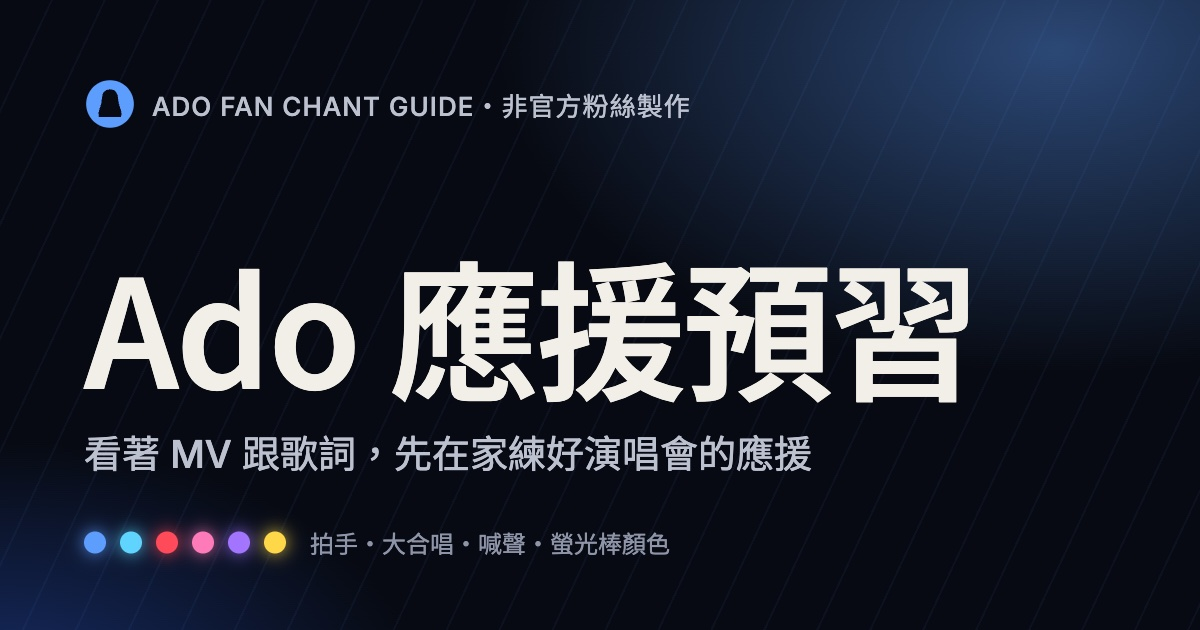
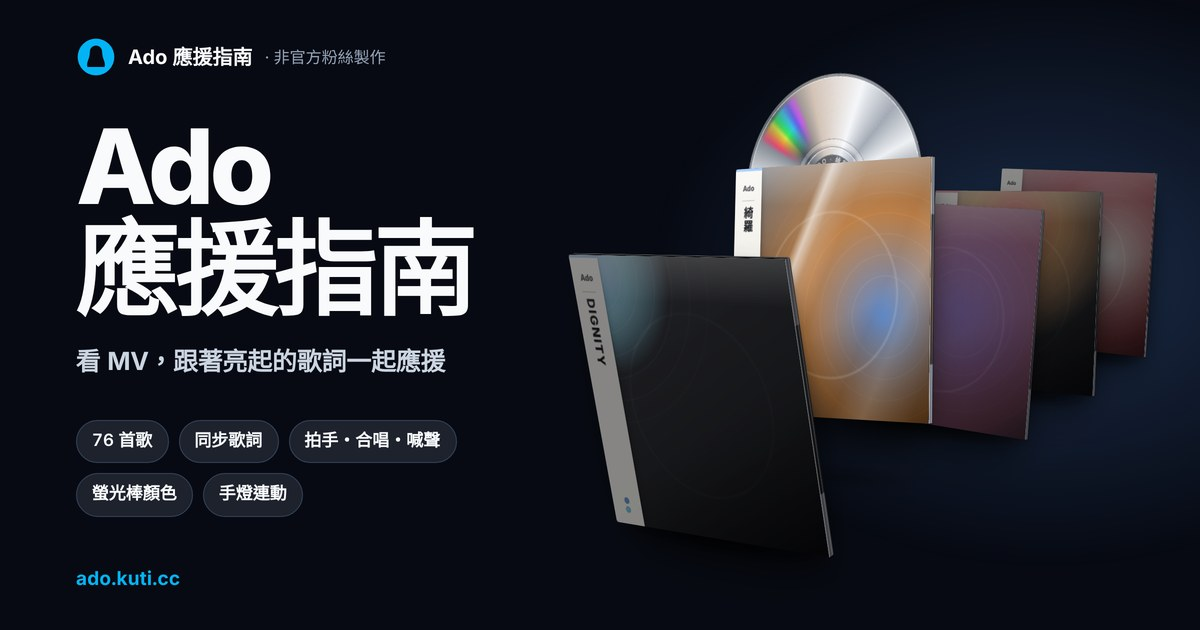
chore(og): 換新分享預覽圖與 README 圖片 (v1.19.3)
- assets/og.jpg 改成現在首頁的樣子：大標題、CD 唱片架、功能標籤與網址
- og:image／twitter:image 網址加上內容雜湊，社群平台會重新抓圖
- README 頂部圖片連到 ado.kuti.cc

Claude-Session: https://claude.ai/code/session_012ZEgk8mKirBteY7H9QDCjv

diff --git a/CHANGELOG.md b/CHANGELOG.md
@@ -2,6 +2,11 @@
 
 依 Git 歷史整理，每個版本對應一次提交。網站頁尾的「更新日誌」直接讀這個檔案，新版本寫在最上面。
 
+## v1.19.3 — 2026-10-31
+
+- 分享網址時的預覽縮圖換新：改成現在首頁的樣子，大標題「Ado 應援指南」配上 CD 唱片架，並列出 76 首歌、同步歌詞、螢光棒顏色、手燈連動。
+- 預覽圖網址加上版本號，貼到 LINE、Facebook、X 時會抓新圖，不會一直顯示舊的。
+
 ## v1.19.2 — 2026-10-31
 
 - 手機和平板上的唱片架可以用手指玩了：

diff --git a/README.md b/README.md
@@ -1,6 +1,6 @@
 # Ado 應援指南
 
-[![Ado 應援指南](assets/og.jpg)](https://gcree.github.io/ado-guide/)
+[![Ado 應援指南：看 MV，跟著亮起的歌詞一起應援](assets/og.jpg)](https://ado.kuti.cc/)
 
 非官方粉絲製作的 Ado 演唱會應援指南網站。看著官方 MV，跟著歌詞知道哪裡拍手、哪裡喊、哪裡跟著唱、哪裡安靜聽。不照任何一場的歌單，不會暴雷。
 
